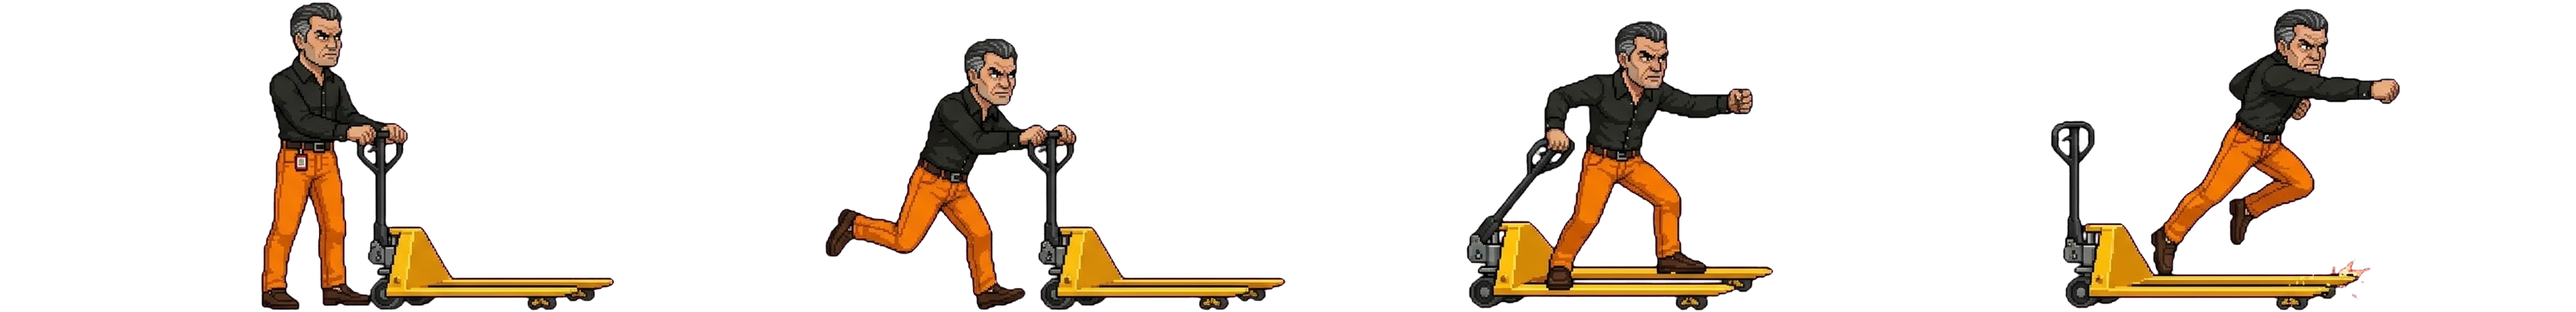
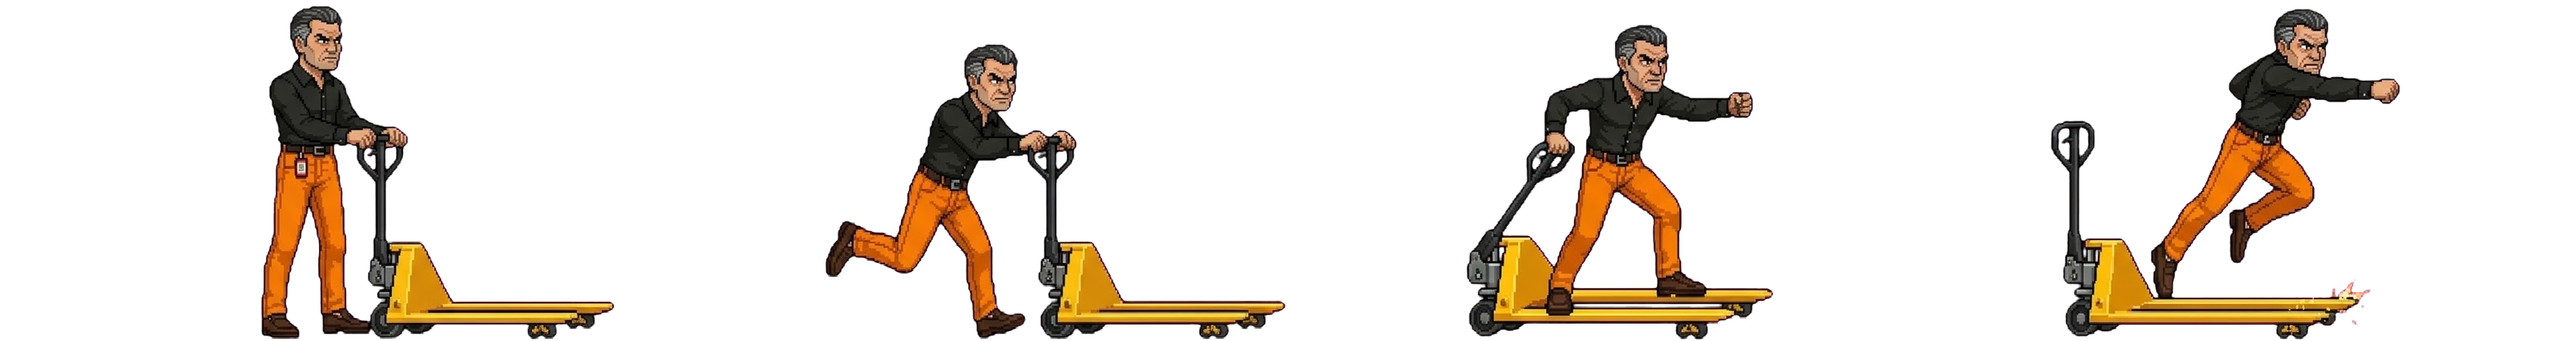
fix: PAULUX con testa e busto proporzionati, alto come VLAD grazie a gambe piu' lunghe, v=38
- tools/build_paulux.py: rigenera PAULUX dalle sorgenti e allunga le gambe (dai jeans in giu') x1.16
  nelle pose in piedi, nella speciale e nella vista frontale; KO e caduta invariati
- scala in gioco 0.89 (testa grande come gli altri); in selezione alto come VLAD (fk)
Evidenza: production/qa/evidence/paulux-proporzioni-v38.png

Claude-Session: https://claude.ai/code/session_01P1JT64VZ5V9vmBLWg7Znu1

diff --git a/index.html b/index.html
@@ -184,7 +184,7 @@ function R(x,y,w,h,col){c.fillStyle='#07070c';c.fillRect(x-1,y-1,w+2,h+2);c.fill
 /* sprite dei personaggi: 1 riga per animazione in assets/characters/<nome>/, corpo in piedi normalizzato a 400px, piedi sul bordo inferiore, rivolti a destra.
    n = frame per animazione; pj = proiettile dello speciale (pjn frame); spT = soglie (tick) dei frame dello speciale se diverse dallo standard.
    hit/win sono opzionali: se mancano si usa la posa idle (inclinata quando colpito). */
-const SPRB=400,VER=37,SPRSET={
+const SPRB=400,VER=38,SPRSET={
 BEPPE:{d:'beppe',n:{idle:4,walk:4,punch:5,kick:5,heavy:5,jump:3,block:1,crouch:1,special:3,hit:1,fall:3,ko:1,win:2},pj:'pallet',pjn:1,pjw:46.9,pjh:44.3,pjo:[12.5,-23.8],spT:[6,11]},
 MATTEO:{d:'matteo',n:{idle:1,walk:2,punch:5,kick:5,heavy:5,jump:3,block:1,crouch:1,special:3,hit:1,fall:3,ko:1,win:3},pj:'matteo-cart',pjn:3,spT:[5,11]},
 VLAD:{d:'vlad',sc:1.05,n:{idle:1,walk:2,punch:5,kick:5,heavy:5,jump:3,block:1,crouch:1,special:3,hit:1,fall:2,ko:1,win:2},pj:'vlad-spray',pjn:3,pjs:.6,pjo:[33.8,-83.5],pji:1,spT:[5,11]},
@@ -199,8 +199,9 @@ FALSA:{d:'falsa',n:{idle:1,walk:2,punch:5,kick:5,heavy:5,jump:3,block:1,crouch:1
 ANGEL:{d:'angel',n:{idle:1,walk:2,punch:5,kick:5,heavy:5,jump:3,block:1,crouch:1,special:4,hit:1,fall:2,ko:1,win:2},ml:50,dash:4.2,hop:4.2,spT:[4,9,13]},
 /* PAULUX (boss): pose da tools/build_character.py, speciale da tools/build_special.py --linee:
    sale sul transpallet e carica, corpo a corpo con scatto (dash).
-   Alto come VLAD: L.big lo ingrandirebbe di 1.12, quindi sc = 1.05/1.12 per arrivare a 1.05 */
-PAULUX:{d:'paulux',sc:.9375,n:{idle:1,walk:2,punch:5,kick:5,heavy:5,jump:3,block:1,crouch:1,special:4,hit:1,fall:2,ko:1,win:2},ml:62,dash:5,spT:[4,9,14]}};
+   Alto come VLAD ma con testa e busto grandi come gli altri: tools/build_paulux.py gli allunga le
+   gambe (x1.16) e qui la scala totale e' 0.89 (L.big 1.12 x sc .795). fk = altezza in selezione */
+PAULUX:{d:'paulux',sc:.795,fk:.9375,n:{idle:1,walk:2,punch:5,kick:5,heavy:5,jump:3,block:1,crouch:1,special:4,hit:1,fall:2,ko:1,win:2},ml:62,dash:5,spT:[4,9,14]}};
 /* proiettile a più frame: pjh altezza e pjy bordo superiore (rispetto alla linea del proiettile), pji = il 1o frame è solo l'avvio;
    pjg = l'effetto cresce frame dopo frame e resta sull'ultimo (onda di LUIS);
    sc = scala del personaggio (es. Vlad un po' più alto); pjo = [avanti, altezza] del punto di uscita rispetto ai piedi (es. ugello dello spruzzino), pjs = scala rispetto agli sprite:
@@ -442,7 +443,7 @@ st.addEventListener('pointerup',e=>{if(sx==null)return;const d=e.clientX-sx;sx=n
 function selAnim(){if(!$('#s-sel').classList.contains('on'))return;const sv=c,L=CH[selI],ss=SPRSET[L.n],fr=ss&&ss.front;
 try{c=$('#pvc').getContext('2d');c.imageSmoothingEnabled=false;c.clearRect(0,0,300,420);
 const kk=(ss&&ss.sc||1)*(L.big?1.12:1)/1.12;/* il piu' grande (boss) occupa tutta l'altezza */
-if(fr&&fr.complete&&fr.naturalWidth){const h=404*kk*(1+Math.sin(T/22)*.008),w=fr.naturalWidth*h/fr.naturalHeight;c.drawImage(fr,150-w/2,416-h,w,h)}
+if(fr&&fr.complete&&fr.naturalWidth){const h=404*(ss.fk||kk)*(1+Math.sin(T/22)*.008),w=fr.naturalWidth*h/fr.naturalHeight;c.drawImage(fr,150-w/2,416-h,w,h)}
 else draw({L,face:1,st:'idle',t:T,ext:0,cr:0},150,416,'idle',404/(0.55*384/2)/(L.big?1.12:1)*kk*(ss&&ss.im.idle?1:.75))}finally{c=sv}}
 $('#b-go').onclick=()=>go(selI);
 const GO={menu:()=>{G=null;pl=false;sh('s-menu')},arc:()=>{mode='arc';fillSel();sh('s-sel')},tor:()=>{mode='tor';fillSel();sh('s-sel')},set:()=>sh('s-set')};

diff --git a/tools/build_paulux.py b/tools/build_paulux.py
@@ -1,0 +1,65 @@
+"""Rigenera tutti gli sprite di PAULUX dalle sorgenti e ne corregge le proporzioni.
+
+Nei fogli pose Gemini ha disegnato PAULUX alto quanto Matteo: portato all'altezza di VLAD, testa e
+busto risultavano piu' grandi di quelli degli altri. Qui le gambe (dalla cima dei jeans arancioni
+in giu') vengono allungate in verticale di LEG, cosi' in gioco PAULUX si puo' scalare di meno
+(SPRSET.PAULUX.sc) e restare alto come VLAD con testa e busto della stessa grandezza degli altri.
+KO e caduta (gambe non verticali) non vengono allungati.
+Uso: python3 -B tools/build_paulux.py"""
+import os
+import subprocess
+import sys
+import numpy as np
+from PIL import Image
+
+HERE = os.path.dirname(os.path.abspath(__file__))
+ROOT = os.path.join(HERE, '..')
+CH = os.path.join(ROOT, 'assets', 'characters', 'paulux')
+SRC = os.path.join(CH, 'sorgenti')
+LEG = 1.16      # allungamento delle gambe
+FRAMES = {'idle': 1, 'walk': 2, 'punch': 5, 'kick': 5, 'heavy': 5, 'jump': 3, 'block': 1, 'crouch': 1,
+          'special': 4, 'hit': 1, 'win': 2, 'front': 1}
+SKIP = {'fall', 'ko'}
+
+
+def run(*args):
+    subprocess.run([sys.executable, '-B'] + [os.path.join(HERE, args[0])] + list(args[1:]), check=True,
+                   cwd=ROOT, stdout=subprocess.DEVNULL)
+
+
+def stretch_frame(c):
+    """c: RGBA uint8 di una cella. Allunga in verticale le righe dalla cima dei jeans in giu'."""
+    R, G, B, A = (c[..., i].astype(int) for i in range(4))
+    orange = (A > 128) & (R > 170) & (G > 70) & (G < 175) & (B < 90) & (R - B > 110)
+    rows = np.where(orange.sum(1) > 4)[0]
+    if not len(rows):
+        return c
+    top = rows.min()
+    low = Image.fromarray(c[top:])
+    low = np.asarray(low.resize((low.width, round(low.height * LEG)), Image.NEAREST))
+    return np.concatenate([c[:top], low], 0)
+
+
+def main():
+    # 1. sprite dalle sorgenti (stesse opzioni usate per l'importazione)
+    run('build_character.py', 'paulux', os.path.join(SRC, 'IMG_5477.jpeg'), os.path.join(SRC, 'IMG_5478.jpeg'),
+        os.path.join(SRC, 'IMG_5479.jpeg'))
+    run('build_extra_poses.py', 'paulux', 'A', os.path.join(SRC, 'IMG_5477.jpeg'), 'crouch=jump_up', '--scala', '1.096')
+    run('build_special.py', 'paulux', os.path.join(SRC, 'IMG_5480.jpeg'), '--linee', '--pose', '4', '--scala', '1.096')
+    run('build_fronts.py')
+    # 2. gambe allungate, celle ricomposte con i piedi sul bordo inferiore
+    for anim, n in FRAMES.items():
+        p = os.path.join(CH, 'paulux-%s.png' % anim)
+        a = np.asarray(Image.open(p).convert('RGBA'))
+        cw = a.shape[1] // n
+        cells = [stretch_frame(a[:, i * cw:(i + 1) * cw]) for i in range(n)]
+        H = max(c.shape[0] for c in cells)
+        out = np.zeros((H, cw * n, 4), np.uint8)
+        for i, c in enumerate(cells):
+            out[H - c.shape[0]:, i * cw:(i + 1) * cw] = c
+        Image.fromarray(out, 'RGBA').save(p, optimize=True)
+        print('paulux-%s.png: gambe x%.2f' % (anim, LEG))
+
+
+if __name__ == '__main__':
+    main()
